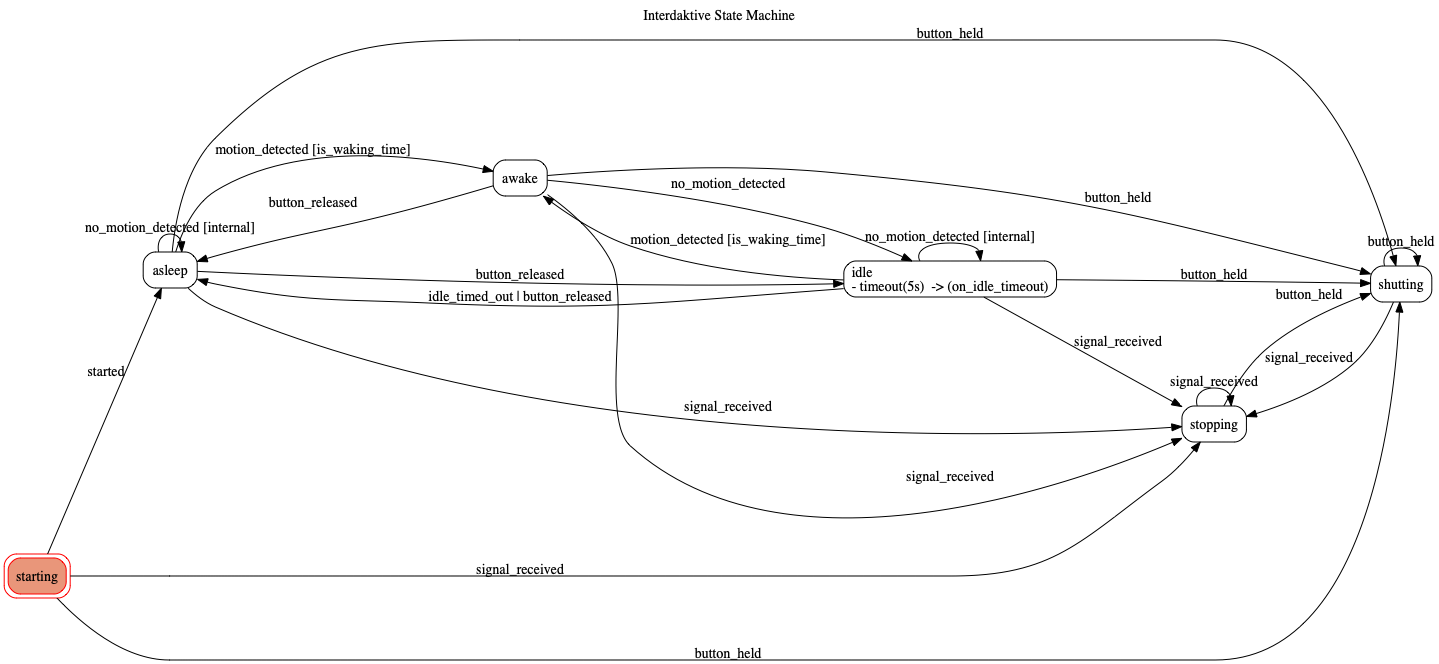
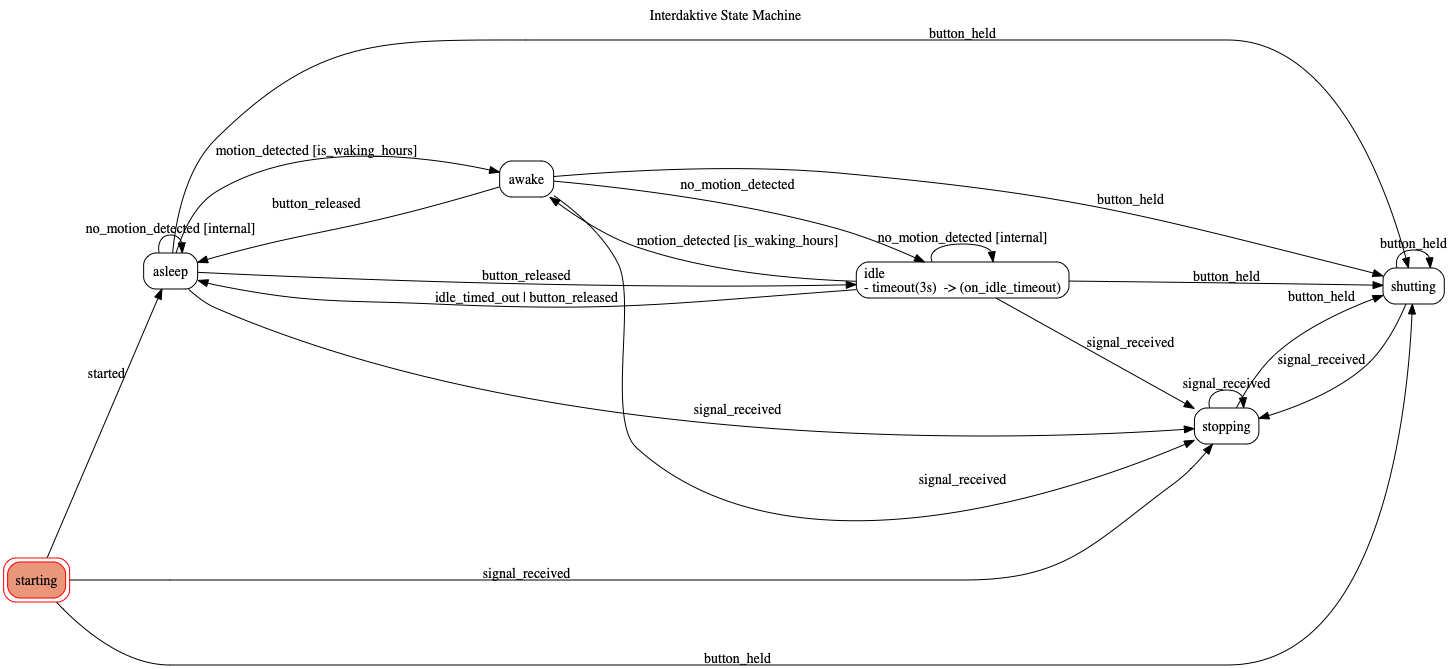
multiple quality improvements: - improved some identifier names and readability - added mypy config file - increased mypy strictness and corrected for it - printed the signal received before quiting

diff --git a/interdaktive/state_machine.py b/interdaktive/state_machine.py
@@ -1,14 +1,15 @@
 import collections
 import logging
 import os
+import signal
 import subprocess
 import time
-import typing
 from dataclasses import astuple, dataclass, fields
+from typing import (Any, Callable, Dict, Iterator, List, Optional, Tuple, Type,
+                    Union, cast)
 
-from transitions import Machine  # type: ignore
-from transitions.extensions.states import Timeout  # type: ignore
-from transitions.extensions.states import add_state_features  # type: ignore
+from transitions import Machine
+from transitions.extensions.states import Timeout, add_state_features
 
 from interdaktive.config import Config
 
@@ -25,7 +26,7 @@ class States:
     starting: str = 'starting'
     stopping: str = 'stopping'
 
-    def __iter__(self) -> typing.Iterator[str]:
+    def __iter__(self) -> Iterator[str]:
         return iter(astuple(self))
 
 
@@ -39,7 +40,7 @@ class Transitions:
     signal_received: str = 'signal_received'
     started: str = 'started'
 
-    def __iter__(self) -> typing.Iterator[str]:
+    def __iter__(self) -> Iterator[str]:
         return iter(astuple(self))
 
 
@@ -47,17 +48,17 @@ class StateMachine(object):
     config: Config
     machine: Machine
 
-    def __init__(self, config: Config, machine_class, **kwargs):
+    def __init__(self, config: Config, machine_class: Type[Machine], **kwargs: Any) -> None:
         self.config = config
 
         # The idle state requires a timeout feature, so add it while converting the `states` tuple
         # to a list.
-        states_with_features: typing.List[typing.Union[typing.Dict, str]] = []
+        states_with_features: List[Union[Dict[str, Union[int, str]], str]] = []
         for state in States():
             if state == States.idle:
                 states_with_features.append({
                     'name': state,
-                    'timeout': self.config.sleep_delay_seconds,
+                    'timeout': self.config.idle_timeout_seconds,
                     'on_timeout': self.on_idle_timeout.__name__  # A string is required here.
                 })
             else:
@@ -86,7 +87,7 @@ class StateMachine(object):
         # Add transitions between asleep, awake, and idle.
         self.machine.add_transition(Transitions.motion_detected, [States.idle, States.asleep], States.awake,
                                     prepare=self.motion_led_on,
-                                    conditions=self.is_waking_time.__name__,  # A string is not required, but it won't show up on the diagram otherwise.
+                                    conditions=self.is_waking_hours.__name__,  # A string is not required here, but it won't show up on a diagram otherwise.
                                     after=self.display_on)
 
         self.machine.add_transition(Transitions.no_motion_detected, States.awake, States.idle,
@@ -102,45 +103,45 @@ class StateMachine(object):
         self.machine.add_transition(Transitions.button_released, [States.awake, States.idle], States.asleep,
                                     after=self.display_off)
 
-    def __getitem__(self, key: str) -> typing.Callable[[], None]:
-        return getattr(self, getattr(Transitions, key))
+    def __getitem__(self, key: str) -> Callable[..., None]:
+        return cast(Callable[..., None], getattr(self, getattr(Transitions, key)))
 
-    def quit(self, *args, **kwargs) -> None:
+    def quit(self, *args: Any, **kwargs: Any) -> None:
+        signal_number = kwargs['signal_number']
+        signal_name = signal.strsignal(signal_number) if hasattr(signal, 'strsignal') else signal_number
+        print('Received signal {0}; quiting'.format(signal_name))
         os._exit(0)
 
-    def shutdown(self, *args, **kwargs) -> None:
+    def shutdown(self, *args: Any, **kwargs: Any) -> None:
         subprocess.run('shutdown now', shell=True)
 
-    def on_idle_timeout(self, *args, **kwargs) -> None:
+    def on_idle_timeout(self, *args: Any, **kwargs: Any) -> None:
         self[Transitions.idle_timed_out]()
 
-    def display_off(self, *args, **kwargs) -> None:
+    def display_off(self, *args: Any, **kwargs: Any) -> None:
         self.config.display.off()
 
-    def display_on(self, *args, **kwargs) -> None:
+    def display_on(self, *args: Any, **kwargs: Any) -> None:
         self.config.display.on()
 
-    def motion_led_off(self, *args, **kwargs) -> None:
+    def motion_led_off(self, *args: Any, **kwargs: Any) -> None:
         if self.config.motion_led:
             self.config.motion_led.off()
 
-    def motion_led_on(self, *args, **kwargs) -> None:
+    def motion_led_on(self, *args: Any, **kwargs: Any) -> None:
         if self.config.motion_led:
             self.config.motion_led.on()
 
-    def running_led_on(self, *args, **kwargs) -> None:
+    def running_led_on(self, *args: Any, **kwargs: Any) -> None:
         if (self.config.running_led):
             self.config.running_led.on()
 
-    def is_waking_time(self, *args, **kwargs) -> bool:
+    def is_waking_hours(self, *args: Any, **kwargs: Any) -> bool:
+        def gteq(left: time.struct_time, right: time.struct_time) -> bool:
+            return left.tm_hour > right.tm_hour or (left.tm_hour == right.tm_hour and left.tm_min >= right.tm_min)
+
+        def lt(left: time.struct_time, right: time.struct_time) -> bool:
+            return not gteq(left, right)
+
         now: time.struct_time = time.localtime()
-        return (
-            (
-                now.tm_hour > self.config.waking_time_begin.tm_hour or
-                (now.tm_hour == self.config.waking_time_begin.tm_hour and now.tm_min >= self.config.waking_time_begin.tm_min)
-            ) and
-            not (
-                now.tm_hour > self.config.waking_time_end.tm_hour or
-                (now.tm_min == self.config.waking_time_end.tm_min and now.tm_min >= self.config.waking_time_end.tm_min)
-            )
-        )
+        return gteq(now, self.config.waking_hours_begin) and lt(now, self.config.waking_hours_end)

diff --git a/interdaktive/config.py b/interdaktive/config.py
@@ -1,23 +1,23 @@
 import argparse
 import time
-import typing
+from typing import Optional, cast
 
-import gpiozero  # type: ignore
+import gpiozero
 
 import interdaktive.display as display
 from interdaktive.display import Display
 
 
 class Config(argparse.Namespace):
-    control_button: typing.Union[gpiozero.Button, None]
+    control_button: Optional[gpiozero.Button]
     display: Display
-    export_diagram_file_path: typing.Union[str, None]
-    motion_led: typing.Union[gpiozero.LED, None]
+    export_diagram_file_path: Optional[str]
+    idle_timeout_seconds: int
+    motion_led: Optional[gpiozero.LED]
     motion_sensor: gpiozero.MotionSensor
-    running_led: typing.Union[gpiozero.LED, None]
-    sleep_delay_seconds: int
-    waking_time_begin: time.struct_time
-    waking_time_end: time.struct_time
+    running_led: Optional[gpiozero.LED]
+    waking_hours_begin: time.struct_time
+    waking_hours_end: time.struct_time
 
     @staticmethod
     def from_args() -> 'Config':
@@ -73,19 +73,26 @@ class Config(argparse.Namespace):
         )
 
         parser.add_argument(
-            '--export-diagram-file-path',
-            help='If provided, a PNG diagram of the internal state machine will be generated at the given path.',
-            type=str,
-        )
-
-        parser.add_argument(
             '--display-type',
             choices=[display.cec, display.mock, display.video_core],
             default='video-core',
             dest='display',
             help='The type of display that is connected, which determines how it is put to sleep and awakened. A "video-core" display simply responds to the HDMI signal turning off and on; e.g. a computer display. A "cec" display responds to HDMI-CEC commands; e.g. a TV.',
             metavar='DISPLAY_TYPE',
-            type=parse_display_type,  # type: ignore
+            type=parse_display_type,
+        )
+
+        parser.add_argument(
+            '--export-diagram-file-path',
+            help='If provided, a PNG diagram of the internal state machine will be generated at the given path.',
+            type=str,
+        )
+
+        parser.add_argument(
+            '--idle-timeout-seconds',
+            default=150,
+            help='The length of time (in seconds) to: keep the display awake after detecting motion, or asleep after pressing the control button.',
+            type=int,
         )
 
         parser.add_argument(
@@ -105,24 +112,17 @@ class Config(argparse.Namespace):
         )
 
         parser.add_argument(
-            '--sleep-delay-seconds',
-            default=120,
-            help='The length of time (in seconds) to keep the display awake after no motion is detected.',
-            type=int,
-        )
-
-        parser.add_argument(
-            '--waking-time-begin',
+            '--waking-hours-begin',
             default='00:00',
-            help='The beginning of the daily period (in 24-hour clock format; e.g. 06:00) where waking the display is allowed.',
+            help='The beginning of the daily period (in 24-hour clock format; e.g. 06:00) when waking the display is allowed.',
             type=parse_time,
         )
 
         parser.add_argument(
-            '--waking-time-end',
+            '--waking-hours-end',
             default='24:00',
-            help='The beginning of the daily period (in 24-hour clock format; e.g. 22:00) where waking the display is allowed.',
+            help='The beginning of the daily period (in 24-hour clock format; e.g. 22:00) when waking the display is allowed.',
             type=parse_time,
         )
 
-        return typing.cast(Config, parser.parse_args(namespace=Config()))
+        return parser.parse_args(namespace=Config())

diff --git a/interdaktive/__main__.py b/interdaktive/__main__.py
@@ -1,5 +1,6 @@
 import signal
 import threading
+import types
 
 from interdaktive.config import Config
 from interdaktive.state_machine import StateMachine, Transitions
@@ -11,7 +12,7 @@ if __name__ == '__main__':
 
     # Create the state machine.
     if config.export_diagram_file_path is not None:
-        from transitions.extensions import GraphMachine  # type: ignore
+        from transitions.extensions import GraphMachine
         state_machine = StateMachine(
             config,
             GraphMachine,
@@ -23,12 +24,15 @@ if __name__ == '__main__':
         state_machine.machine.machine_attributes['ratio'] = '0.33'
         state_machine.machine.get_graph(force_new=True).draw(config.export_diagram_file_path, prog='dot')
     else:
-        from transitions import Machine  # type: ignore
+        from transitions import Machine
         state_machine = StateMachine(config, Machine)
 
     # Wire the state machine up to external events.
-    signal.signal(signal.SIGINT, state_machine[Transitions.signal_received])
-    signal.signal(signal.SIGTERM, state_machine[Transitions.signal_received])
+    def handle_signal(signal_number: signal.Signals, frame: types.FrameType) -> None:
+        state_machine[Transitions.signal_received](signal_number=signal_number, frame=frame)
+
+    signal.signal(signal.SIGINT, handle_signal)
+    signal.signal(signal.SIGTERM, handle_signal)
 
     config.motion_sensor.when_motion = state_machine[Transitions.motion_detected]
     config.motion_sensor.when_no_motion = state_machine[Transitions.no_motion_detected]

diff --git a/interdaktive/display.py b/interdaktive/display.py
@@ -1,15 +1,15 @@
 import subprocess
-import typing
+from typing import Optional
 
 
 # Declare and instantiate a class responsible for turning on/off the display.
 class Display:
-    __is_on: typing.Union[bool, None]
+    __is_on: Optional[bool]
     __off_command: str
     __on_command: str
     __type: str
 
-    def __init__(self, type: str, off_command: str, on_command: str):
+    def __init__(self, type: str, off_command: str, on_command: str) -> None:
         self.__is_on = None
         self.__off_command = off_command
         self.__on_command = on_command
@@ -26,7 +26,7 @@ class Display:
         return self.__type
 
     @property
-    def is_on(self) -> typing.Union[bool, None]:
+    def is_on(self) -> Optional[bool]:
         return self.__is_on
 
     def off(self) -> None:

diff --git a/README.md b/README.md
@@ -85,6 +85,6 @@ TODO: Describe the Python script.
         --motion-led-pin=BOARD22 \
         --running-led-pin=BOARD18 \
         --sleep-delay-seconds=5 \
-        --waking-time-begin=06:00 \
-        --waking-time-end=22:00 &
+        --waking-hours-begin=06:00 \
+        --waking-hours-end=22:00 &
 ```
